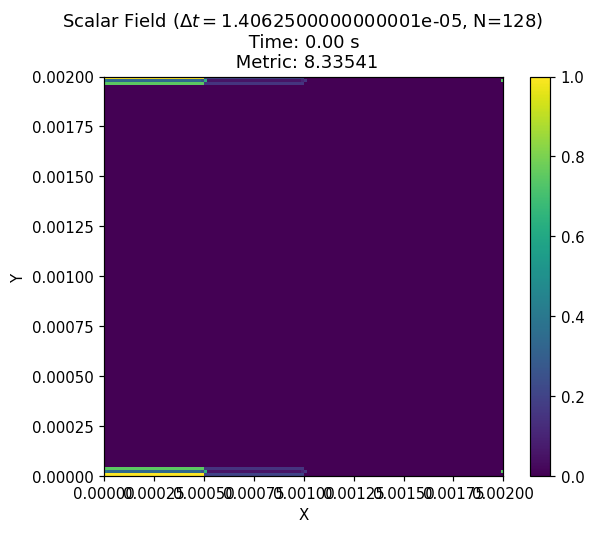
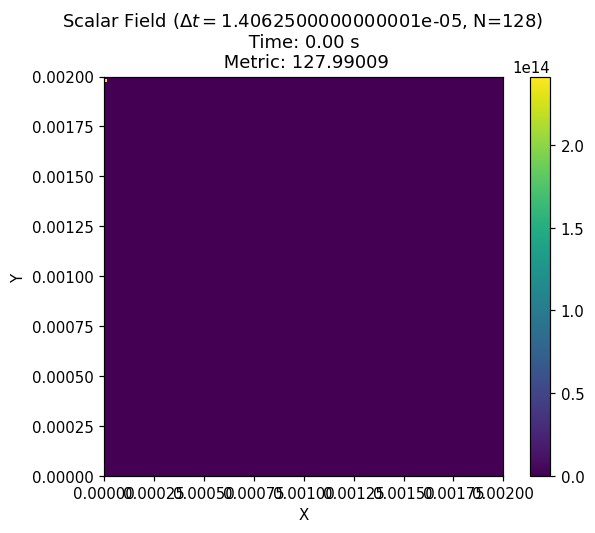
Corrections de bugs mais tjrs pas de bonne configuration

diff --git a/Project3/program_ecoulement.py b/Project3/program_ecoulement.py
@@ -98,8 +98,8 @@ def boundary_conditions(v, u_new, v_new):
     u_new[N-1,:] = np.zeros(N, dtype=float)
 
     # outlet condition
-    u_new[:,N-1] = u[:,N-2]
-    v_new[:,N-1] = v[:,N-2]
+    u_new[:,N-1] = u_new[:,N-2]
+    v_new[:,N-1] = v_new[:,N-2]
 
     # inlet conditions for v
     for jj in range(N):
@@ -115,13 +115,16 @@ def boundary_conditions(v, u_new, v_new):
             v_new[0][jj] = 0.
             v_new[N-1][jj] = 0.
     
-    # slippin wall condition on v
-
+    # slipping wall condition on v
     for ii in range(1,N-1):
         if v[ii,0] > 0:
             v_new[ii][0] = -v[ii][0]*(v[ii][0] - v[ii-1][0])/dx + D*(v[ii+1][0] - v[ii][0] + v[ii-1][0] + v[ii][2] -2*v[ii][1])/(dx**2)
+        if v[ii,0] < 0:
+            v_new[ii][0] = -v[ii][0]*(v[ii+1][0] - v[ii][0])/dx + D*(v[ii+1][0] - v[ii][0] + v[ii-1][0] + v[ii][2] -2*v[ii][1])/(dx**2)
+        else:
+            v_new[ii][0] = D*(v[ii+1][0] - v[ii][0] + v[ii-1][0] + v[ii][2] -2*v[ii][1])/(dx**2)
 
-    return u, v
+    return u_new, v_new
 
 
 def update(u, v):
@@ -280,9 +283,8 @@ L_coflow = 5e-4 # length of the inlet coflow.
 # Initial Parameters of the simulation
 N = 128    # Number of steps for each space axis
 dx = L/N
-max_u = 1 # because the max inlet velocity is 1 m/s.
+max_u = 1. # because the max inlet velocity is 1 m/s.
 delta_t = 0.90*min((dx)**2/D, dx/max_u)   # Time step
-T = 10      # Total time
 divergence_threshold = 1000
 
 # Create mesh grid
